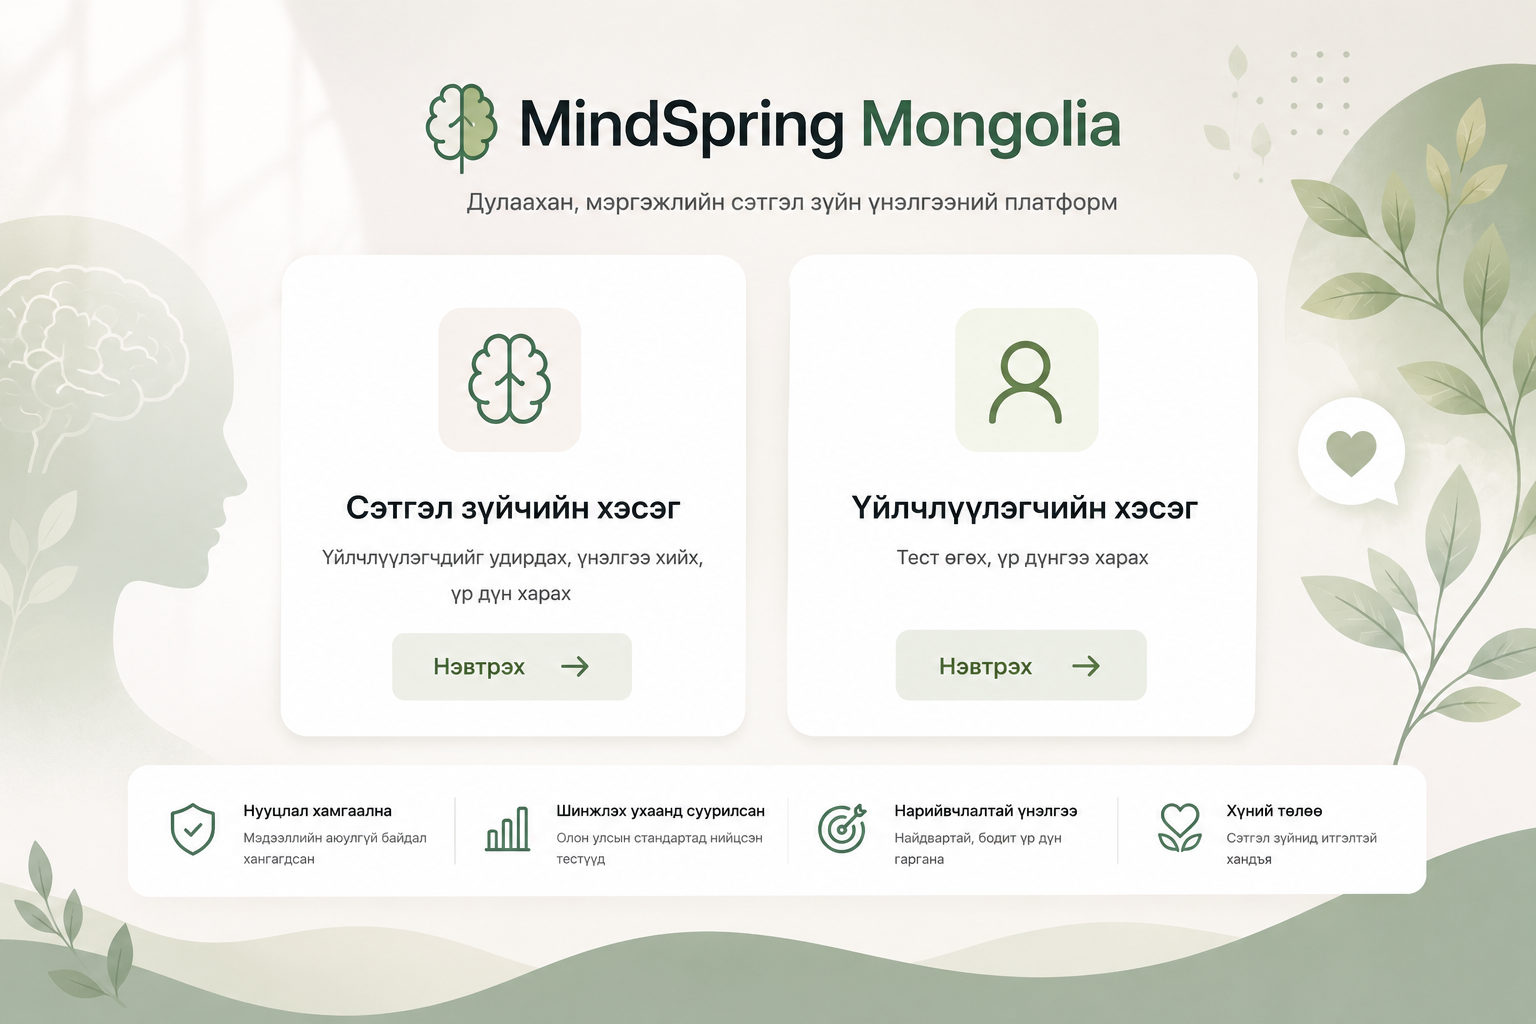
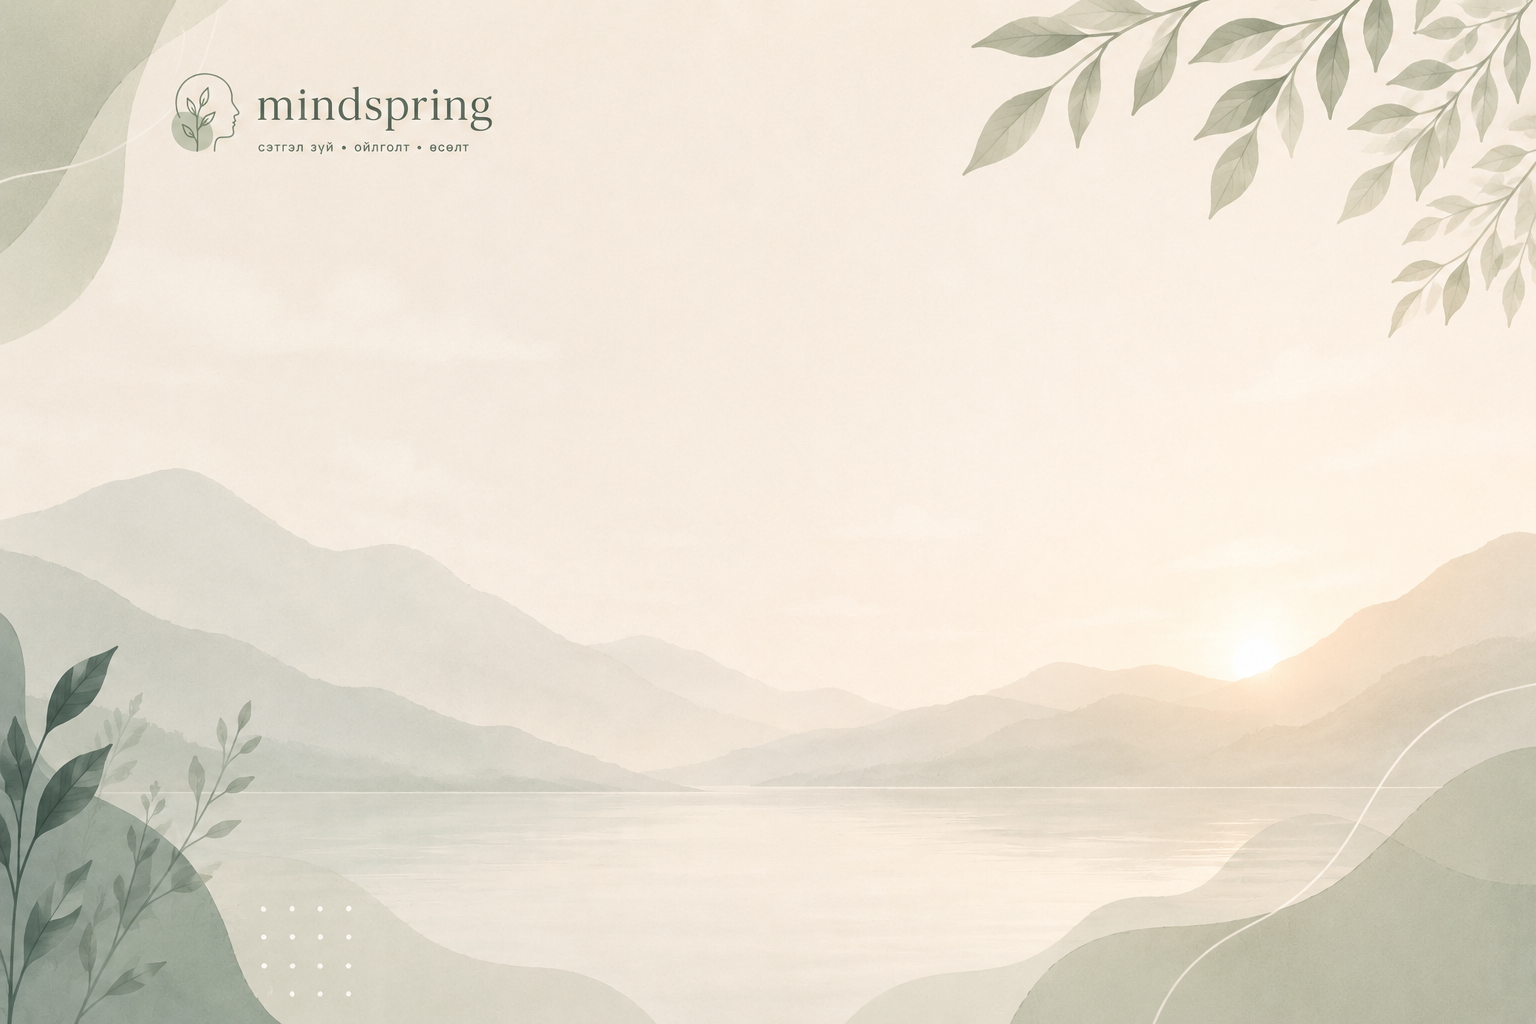
Update background image on all pages and redesign home page cards
- Replace home-bg.png with new mountain/lake landscape
- Add chair-psych.jpg and chair-client.jpg for home page cards
- Redesign Home page: cards with chair images, titles, descriptions, and CTA buttons
- Apply background image globally via index.css (body background-attachment: fixed)
- Remove per-page backgroundColor: BG from all page components

diff --git a/src/pages/Home.tsx b/src/pages/Home.tsx
@@ -1,11 +1,15 @@
 import { useApp } from '../contexts/AppContext';
 
+const G = '#4A7A56';
+const TEXT = '#1C2B1A';
+const MUTED = '#6B7B69';
+
 export default function Home() {
   const { navigate } = useApp();
 
   return (
     <div className="min-h-screen relative overflow-hidden">
-      {/* Background image */}
+      {/* Background */}
       <img
         src="/home-bg.png"
         alt="MindSpring Mongolia"
@@ -13,27 +17,60 @@ export default function Home() {
         draggable={false}
       />
 
-      {/* Clickable overlay grid */}
-      <div className="relative z-10 min-h-screen flex flex-col">
-        {/* Top spacer — logo + title area */}
-        <div className="flex-[2]" />
-
-        {/* Card row */}
-        <div className="flex justify-center gap-6 px-[16%] flex-[3]">
-          <button
-            onClick={() => navigate('psych-login')}
-            className="flex-1 rounded-3xl cursor-pointer transition-all hover:bg-black/5 active:bg-black/10"
-            aria-label="Сэтгэл зүйчийн хэсэг — Нэвтрэх"
-          />
-          <button
-            onClick={() => navigate('client-login')}
-            className="flex-1 rounded-3xl cursor-pointer transition-all hover:bg-black/5 active:bg-black/10"
-            aria-label="Үйлчлүүлэгчийн хэсэг — Нэвтрэх"
-          />
+      {/* Content */}
+      <div className="relative z-10 min-h-screen flex flex-col items-center justify-center px-6 py-12">
+        {/* Logo */}
+        <div className="mb-10 text-center">
+          <div className="flex items-center justify-center gap-3 mb-1">
+            <svg width="32" height="32" viewBox="0 0 24 24" fill="none" stroke={G} strokeWidth="1.8" strokeLinecap="round" strokeLinejoin="round">
+              <path d="M9.5 2a6.5 6.5 0 0 1 5.742 9.573A6.5 6.5 0 1 1 9.5 2z"/>
+              <path d="M12 2v4M9.5 8.5l2 2M14.5 8.5l-2 2"/>
+            </svg>
+            <span style={{ fontFamily: 'Inter, sans-serif', fontWeight: 800, fontSize: 28, color: TEXT, letterSpacing: '-0.01em' }}>
+              mindspring
+            </span>
+          </div>
+          <p style={{ color: MUTED, fontSize: 13, letterSpacing: '0.04em' }}>сэтгэл зүй • ойлголт • өсөлт</p>
         </div>
 
-        {/* Bottom spacer — feature bar + wave */}
-        <div className="flex-[2]" />
+        {/* Cards */}
+        <div className="flex gap-5 w-full max-w-2xl">
+          {/* Psychologist card */}
+          <button
+            onClick={() => navigate('psych-login')}
+            className="flex-1 rounded-3xl overflow-hidden text-left transition-all hover:scale-[1.02] hover:shadow-xl active:scale-[0.99]"
+            style={{ background: '#fff', boxShadow: '0 4px 24px rgb(0 0 0 / 0.10)' }}
+          >
+            <div className="h-52 overflow-hidden">
+              <img src="/chair-psych.jpg" alt="Сэтгэлзүйч" className="w-full h-full object-cover" />
+            </div>
+            <div className="p-5">
+              <h2 style={{ fontSize: 18, fontWeight: 700, color: TEXT, marginBottom: 4 }}>Сэтгэлзүйч</h2>
+              <p style={{ fontSize: 13, color: MUTED, lineHeight: 1.5, marginBottom: 14 }}>
+                Үйлчлүүлэгчдээ удирдах, стандартчилсан тестүүд хуваарилах
+              </p>
+              <span style={{ fontSize: 13, fontWeight: 600, color: G }}>Нэвтрэх →</span>
+            </div>
+          </button>
+
+          {/* Client card */}
+          <button
+            onClick={() => navigate('client-login')}
+            className="flex-1 rounded-3xl overflow-hidden text-left transition-all hover:scale-[1.02] hover:shadow-xl active:scale-[0.99]"
+            style={{ background: '#fff', boxShadow: '0 4px 24px rgb(0 0 0 / 0.10)' }}
+          >
+            <div className="h-52 overflow-hidden">
+              <img src="/chair-client.jpg" alt="Үйлчлүүлэгч" className="w-full h-full object-cover" />
+            </div>
+            <div className="p-5">
+              <h2 style={{ fontSize: 18, fontWeight: 700, color: TEXT, marginBottom: 4 }}>Үйлчлүүлэгч</h2>
+              <p style={{ fontSize: 13, color: MUTED, lineHeight: 1.5, marginBottom: 14 }}>
+                Сэтгэлзүйчийн өгсөн 6 тэмдэгтийн кодоор тестээ авах
+              </p>
+              <span style={{ fontSize: 13, fontWeight: 600, color: G }}>Код оруулах →</span>
+            </div>
+          </button>
+        </div>
       </div>
     </div>
   );

diff --git a/src/pages/ResetPassword.tsx b/src/pages/ResetPassword.tsx
@@ -30,7 +30,7 @@ export default function ResetPassword() {
 
   if (isRecovery) {
     return (
-      <div className="min-h-screen flex items-center justify-center p-4" style={{ backgroundColor: BG }}>
+      <div className="min-h-screen flex items-center justify-center p-4">
         <div className="bg-white rounded-3xl shadow-sm border border-stone-100 p-8 max-w-md w-full text-center">
           <div className="w-16 h-16 rounded-full flex items-center justify-center mx-auto mb-4" style={{ backgroundColor: '#E8F0EB' }}>
             <svg className="w-8 h-8" fill="none" stroke="currentColor" viewBox="0 0 24 24" style={{ color: G }}>
@@ -53,7 +53,7 @@ export default function ResetPassword() {
 
   if (done) {
     return (
-      <div className="min-h-screen flex items-center justify-center p-4" style={{ backgroundColor: BG }}>
+      <div className="min-h-screen flex items-center justify-center p-4">
         <div className="bg-white rounded-3xl shadow-sm border border-stone-100 p-8 max-w-md w-full text-center">
           <div className="w-16 h-16 bg-green-100 rounded-full flex items-center justify-center mx-auto mb-4">
             <svg className="w-8 h-8 text-green-600" fill="none" stroke="currentColor" viewBox="0 0 24 24">
@@ -73,7 +73,7 @@ export default function ResetPassword() {
   }
 
   return (
-    <div className="min-h-screen flex items-center justify-center p-4" style={{ backgroundColor: BG }}>
+    <div className="min-h-screen flex items-center justify-center p-4">
       <div className="w-full max-w-md">
         <div className="bg-white rounded-3xl shadow-sm border border-stone-100 p-8">
           <div className="text-center mb-8">

diff --git a/src/pages/PsychSubscription.tsx b/src/pages/PsychSubscription.tsx
@@ -35,7 +35,7 @@ export default function PsychSubscription() {
 
   if (confirmed) {
     return (
-      <div className="min-h-screen flex items-center justify-center p-4" style={{ backgroundColor: BG }}>
+      <div className="min-h-screen flex items-center justify-center p-4">
         <div className="bg-white rounded-3xl shadow-sm border border-stone-100 p-8 max-w-md w-full text-center">
           <div className="w-16 h-16 rounded-full flex items-center justify-center mx-auto mb-4" style={{ backgroundColor: '#E8F0EB' }}>
             <svg className="w-8 h-8" fill="none" stroke="currentColor" viewBox="0 0 24 24" style={{ color: G }}>
@@ -58,7 +58,7 @@ export default function PsychSubscription() {
   }
 
   return (
-    <div className="min-h-screen" style={{ backgroundColor: BG }}>
+    <div className="min-h-screen">
       <div className="max-w-xl mx-auto px-4 py-12">
 
         {/* Header */}

diff --git a/src/pages/AssignTests.tsx b/src/pages/AssignTests.tsx
@@ -31,7 +31,7 @@ export default function AssignTests() {
   const filtered = PSYCHOLOGICAL_TESTS.filter((t) => filterCat === 'Бүгд' || t.category === filterCat);
 
   return (
-    <div className="min-h-screen" style={{ backgroundColor: BG }}>
+    <div className="min-h-screen">
       {/* Sticky header */}
       <div className="bg-white border-b border-stone-100 px-6 py-4 sticky top-0 z-10">
         <div className="max-w-4xl mx-auto flex items-center justify-between">

diff --git a/src/pages/PsychAuth.tsx b/src/pages/PsychAuth.tsx
@@ -55,7 +55,7 @@ export default function PsychAuth() {
   const inputCls = 'w-full px-4 py-3 border border-stone-200 rounded-2xl focus:ring-2 outline-none transition text-sm';
 
   return (
-    <div className="min-h-screen flex items-center justify-center p-4" style={{ backgroundColor: BG }}>
+    <div className="min-h-screen flex items-center justify-center p-4">
       <div className="w-full max-w-md">
         <button
           onClick={() => navigate('home')}

diff --git a/src/pages/PsychPending.tsx b/src/pages/PsychPending.tsx
@@ -9,7 +9,7 @@ export default function PsychPending() {
   const { psychologist, logoutPsychologist, navigate } = useApp();
 
   return (
-    <div className="min-h-screen flex items-center justify-center p-4" style={{ backgroundColor: BG }}>
+    <div className="min-h-screen flex items-center justify-center p-4">
       <div className="bg-white rounded-3xl shadow-sm border border-stone-100 p-8 max-w-md w-full text-center">
 
         {/* Animated waiting icon */}

diff --git a/src/pages/ClientDetail.tsx b/src/pages/ClientDetail.tsx
@@ -22,7 +22,7 @@ export default function ClientDetail() {
   const completedMap = new Map(activeClient.completedTests.map((r) => [r.testId, r]));
 
   return (
-    <div className="min-h-screen" style={{ backgroundColor: BG }}>
+    <div className="min-h-screen">
       {/* Header */}
       <div className="bg-white border-b border-stone-100 px-6 py-4">
         <div className="max-w-4xl mx-auto flex items-center justify-between">

diff --git a/src/pages/TestResults.tsx b/src/pages/TestResults.tsx
@@ -25,7 +25,7 @@ export default function TestResults() {
   const mainRange = findRange(test.ranges, result.totalScore);
 
   return (
-    <div className="min-h-screen" style={{ backgroundColor: BG }}>
+    <div className="min-h-screen">
       {/* Header */}
       <div className="bg-white border-b border-stone-100 px-6 py-4">
         <div className="max-w-3xl mx-auto flex items-center justify-between">

diff --git a/src/pages/ClientTests.tsx b/src/pages/ClientTests.tsx
@@ -24,7 +24,7 @@ export default function ClientTests() {
   const allDone = totalCount > 0 && completedCount === totalCount;
 
   return (
-    <div className="min-h-screen" style={{ backgroundColor: BG }}>
+    <div className="min-h-screen">
       {/* Header */}
       <div className="bg-white border-b border-stone-100 px-6 py-5">
         <div className="max-w-2xl mx-auto flex items-center gap-4">

diff --git a/src/index.css b/src/index.css
@@ -7,6 +7,14 @@
     font-family: 'Inter', system-ui, -apple-system, sans-serif;
   }
 
+  body {
+    background-image: url('/home-bg.png');
+    background-size: cover;
+    background-position: center;
+    background-attachment: fixed;
+    background-repeat: no-repeat;
+  }
+
   * {
     -webkit-font-smoothing: antialiased;
     -moz-osx-font-smoothing: grayscale;

diff --git a/src/pages/AdminPanel.tsx b/src/pages/AdminPanel.tsx
@@ -60,7 +60,7 @@ export default function AdminPanel() {
     : psychologists;
 
   return (
-    <div className="min-h-screen" style={{ backgroundColor: BG }}>
+    <div className="min-h-screen">
       {/* Header */}
       <div className="bg-white border-b border-stone-100 px-6 py-4">
         <div className="max-w-5xl mx-auto flex items-center justify-between">

diff --git a/src/pages/ClientLogin.tsx b/src/pages/ClientLogin.tsx
@@ -26,7 +26,7 @@ export default function ClientLogin() {
   }
 
   return (
-    <div className="min-h-screen flex items-center justify-center p-4" style={{ backgroundColor: BG }}>
+    <div className="min-h-screen flex items-center justify-center p-4">
       <div className="w-full max-w-md">
         <button
           onClick={() => navigate('home')}
